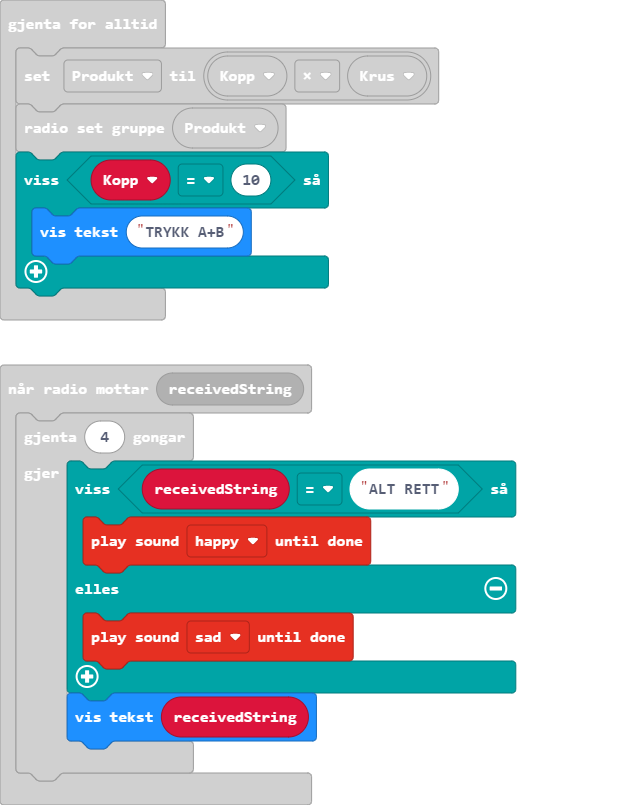
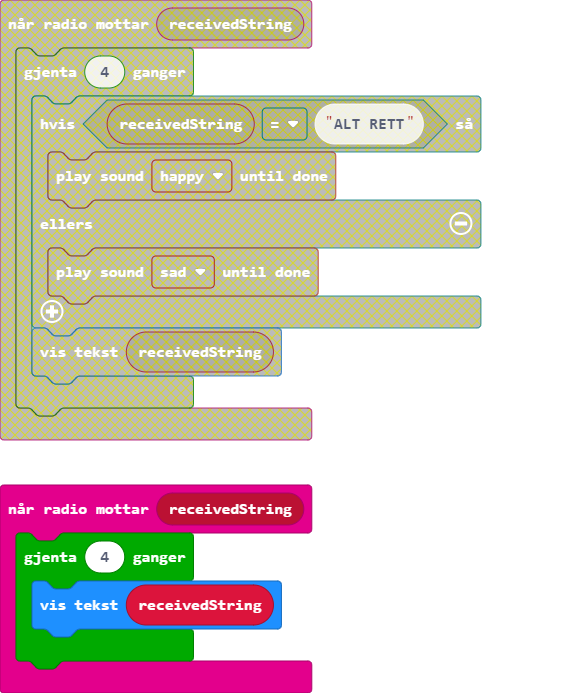
Update main.blocks, main.ts

diff --git a/main.ts b/main.ts
@@ -22,11 +22,6 @@ input.onButtonPressed(Button.AB, function () {
 })
 radio.onReceivedString(function (receivedString) {
     for (let index = 0; index < 4; index++) {
-        if (receivedString == "ALT RETT") {
-            soundExpression.happy.playUntilDone()
-        } else {
-            soundExpression.sad.playUntilDone()
-        }
         basic.showString(receivedString)
     }
 })
